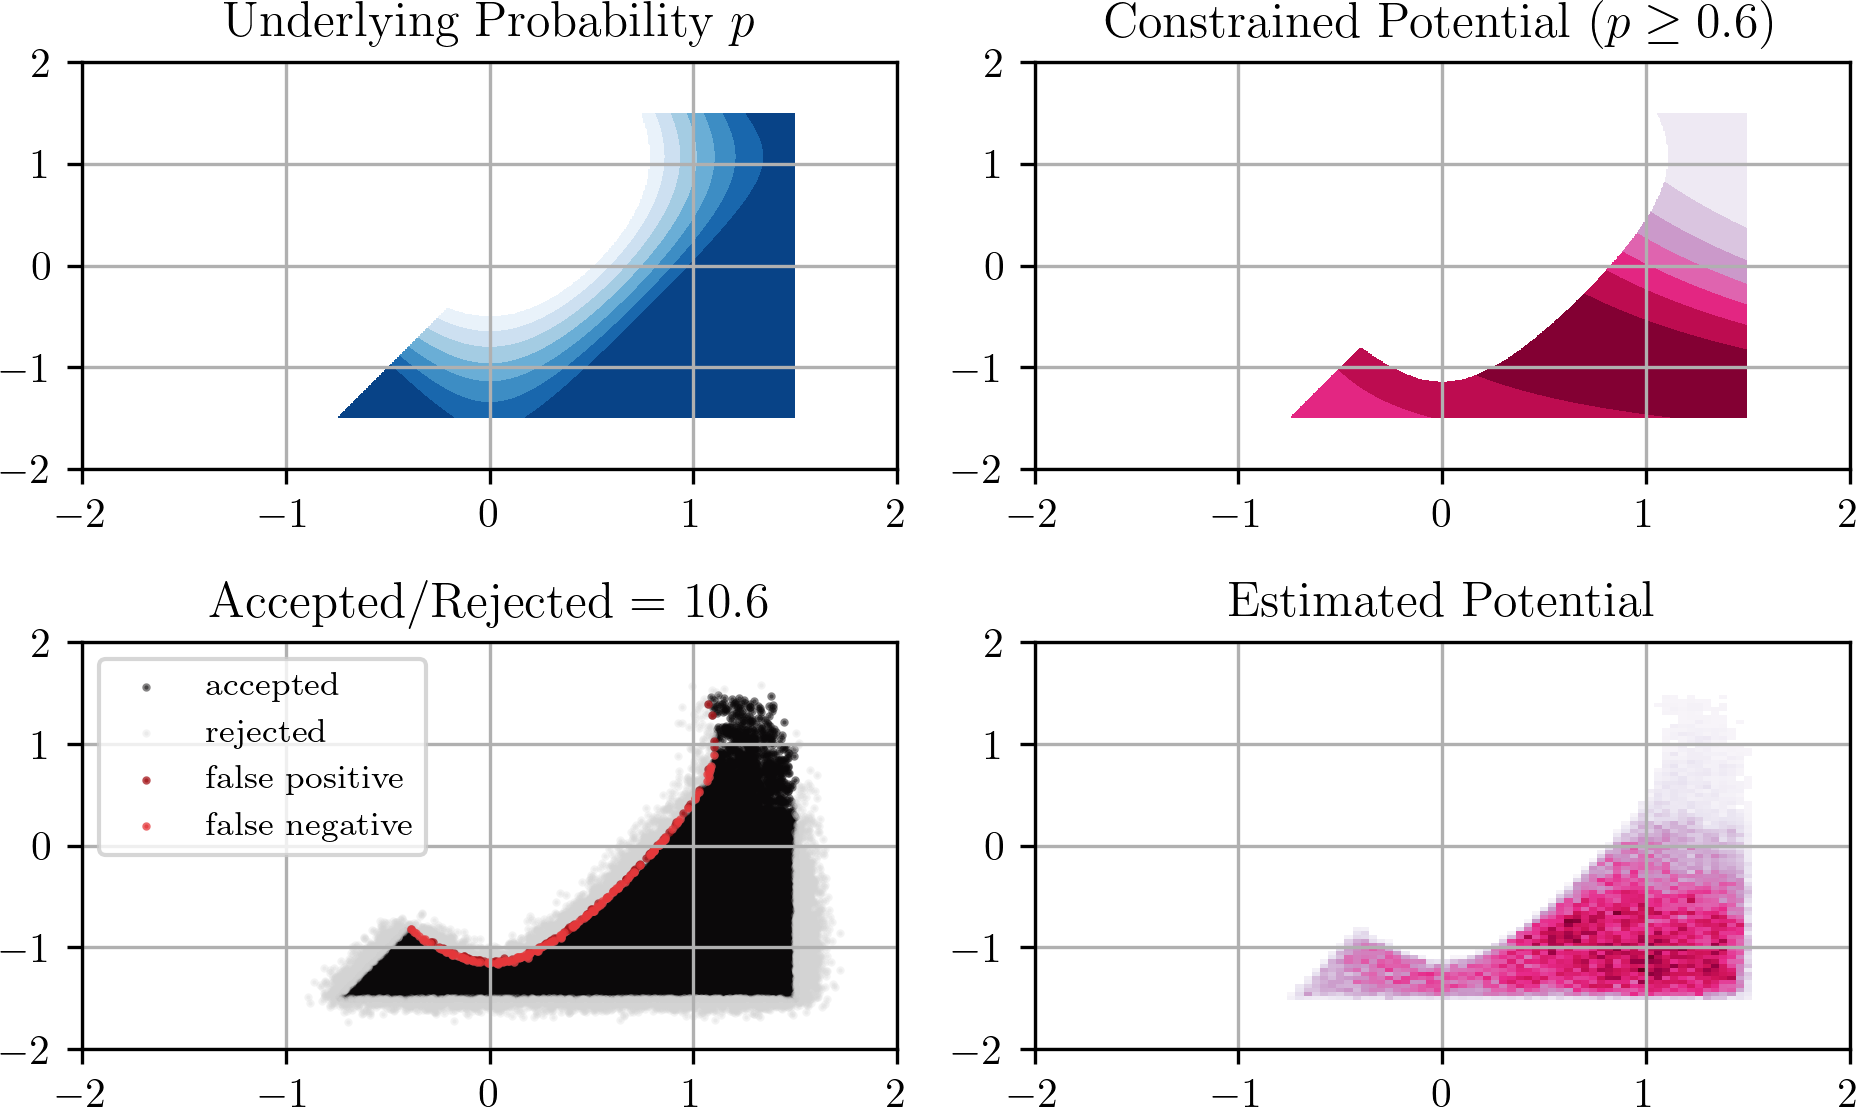
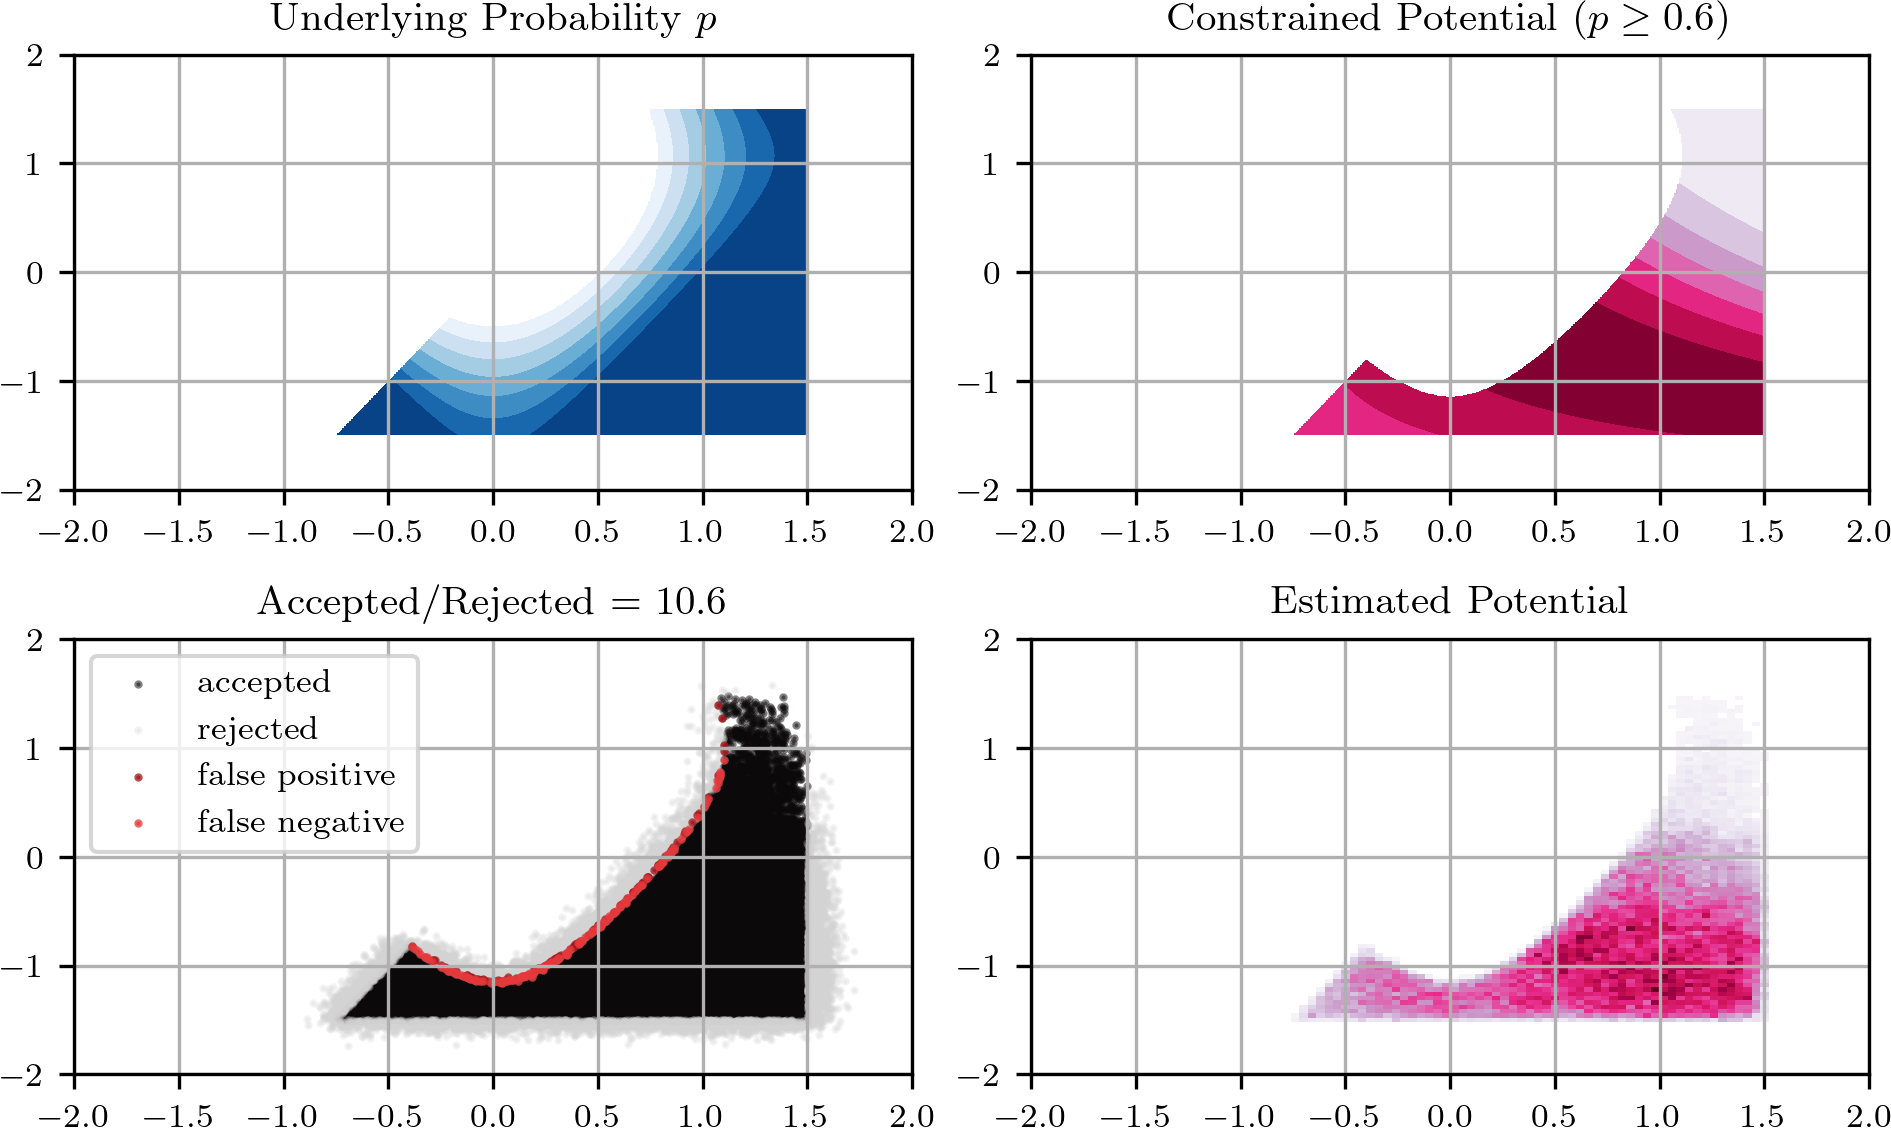
Changed font-size of plots.

diff --git a/experiments/additional_experiments/probabilistically_constrained_sampling_2d_example.py b/experiments/additional_experiments/probabilistically_constrained_sampling_2d_example.py
@@ -112,12 +112,12 @@ def create_plot(path):
         "text.usetex": True,
         "font.family": "serif",
         # Use 10pt font in plots, to match 10pt font in document
-        "axes.labelsize": 10,
-        "font.size": 10,
+        "axes.labelsize": 8,
+        "font.size": 8,
         # Make the legend/label fonts quantile_distance little smaller
         "legend.fontsize": 8,
-        "xtick.labelsize": 10,
-        "ytick.labelsize": 10
+        "xtick.labelsize": 8,
+        "ytick.labelsize": 8
     }
     plt.rcParams.update(tex_fonts)
 
